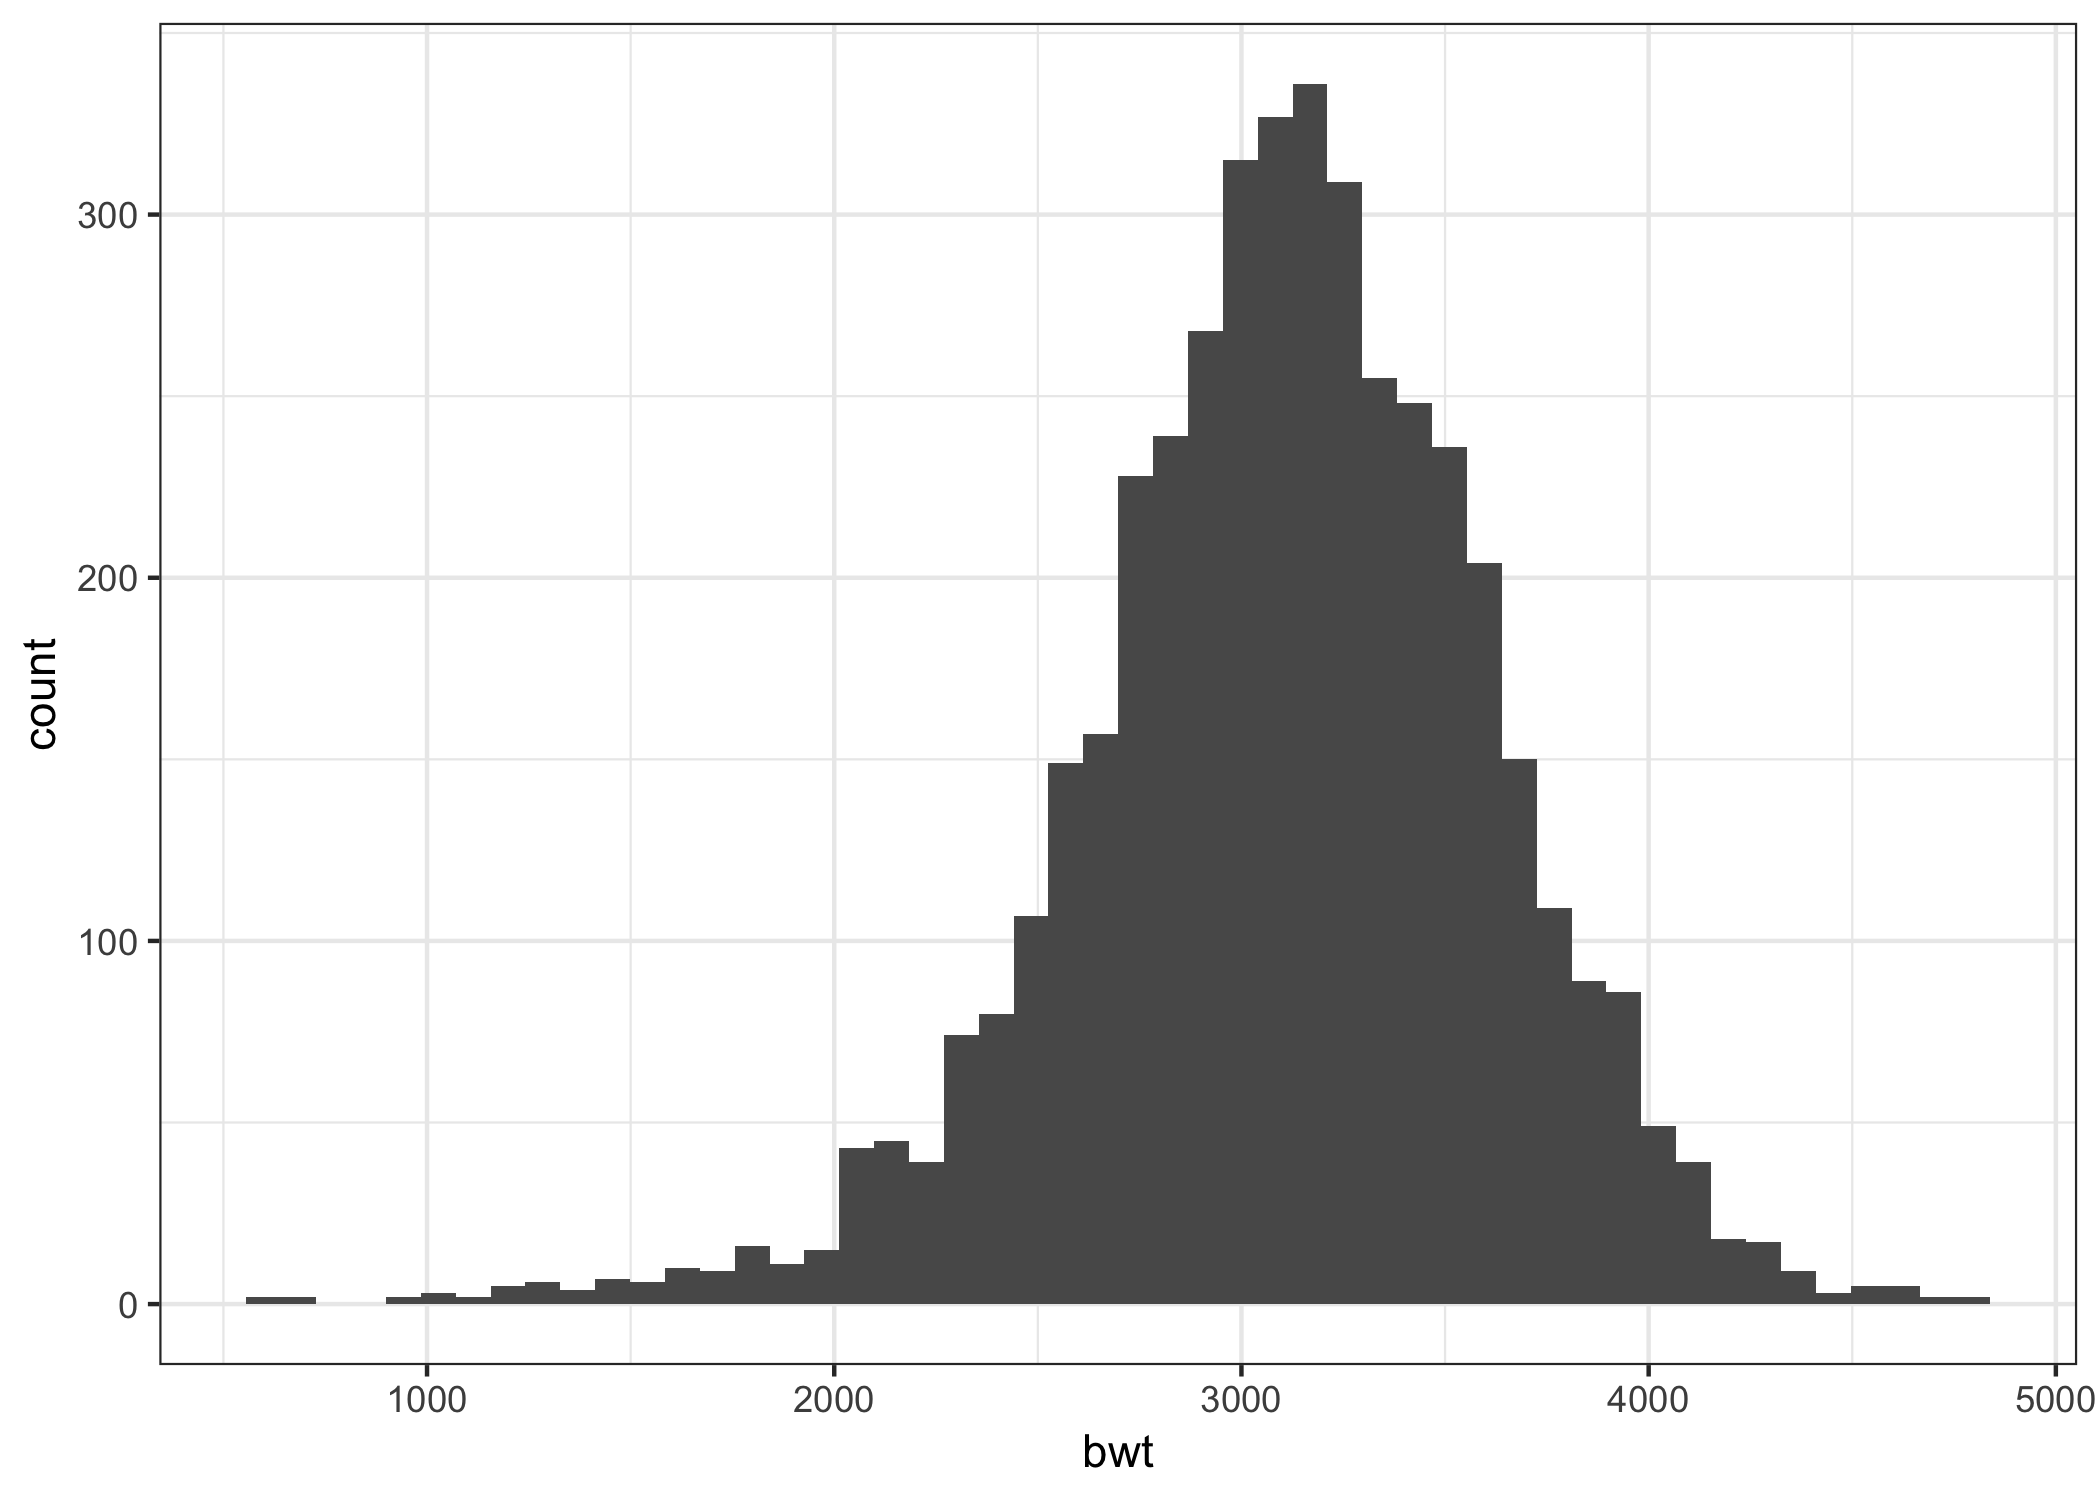
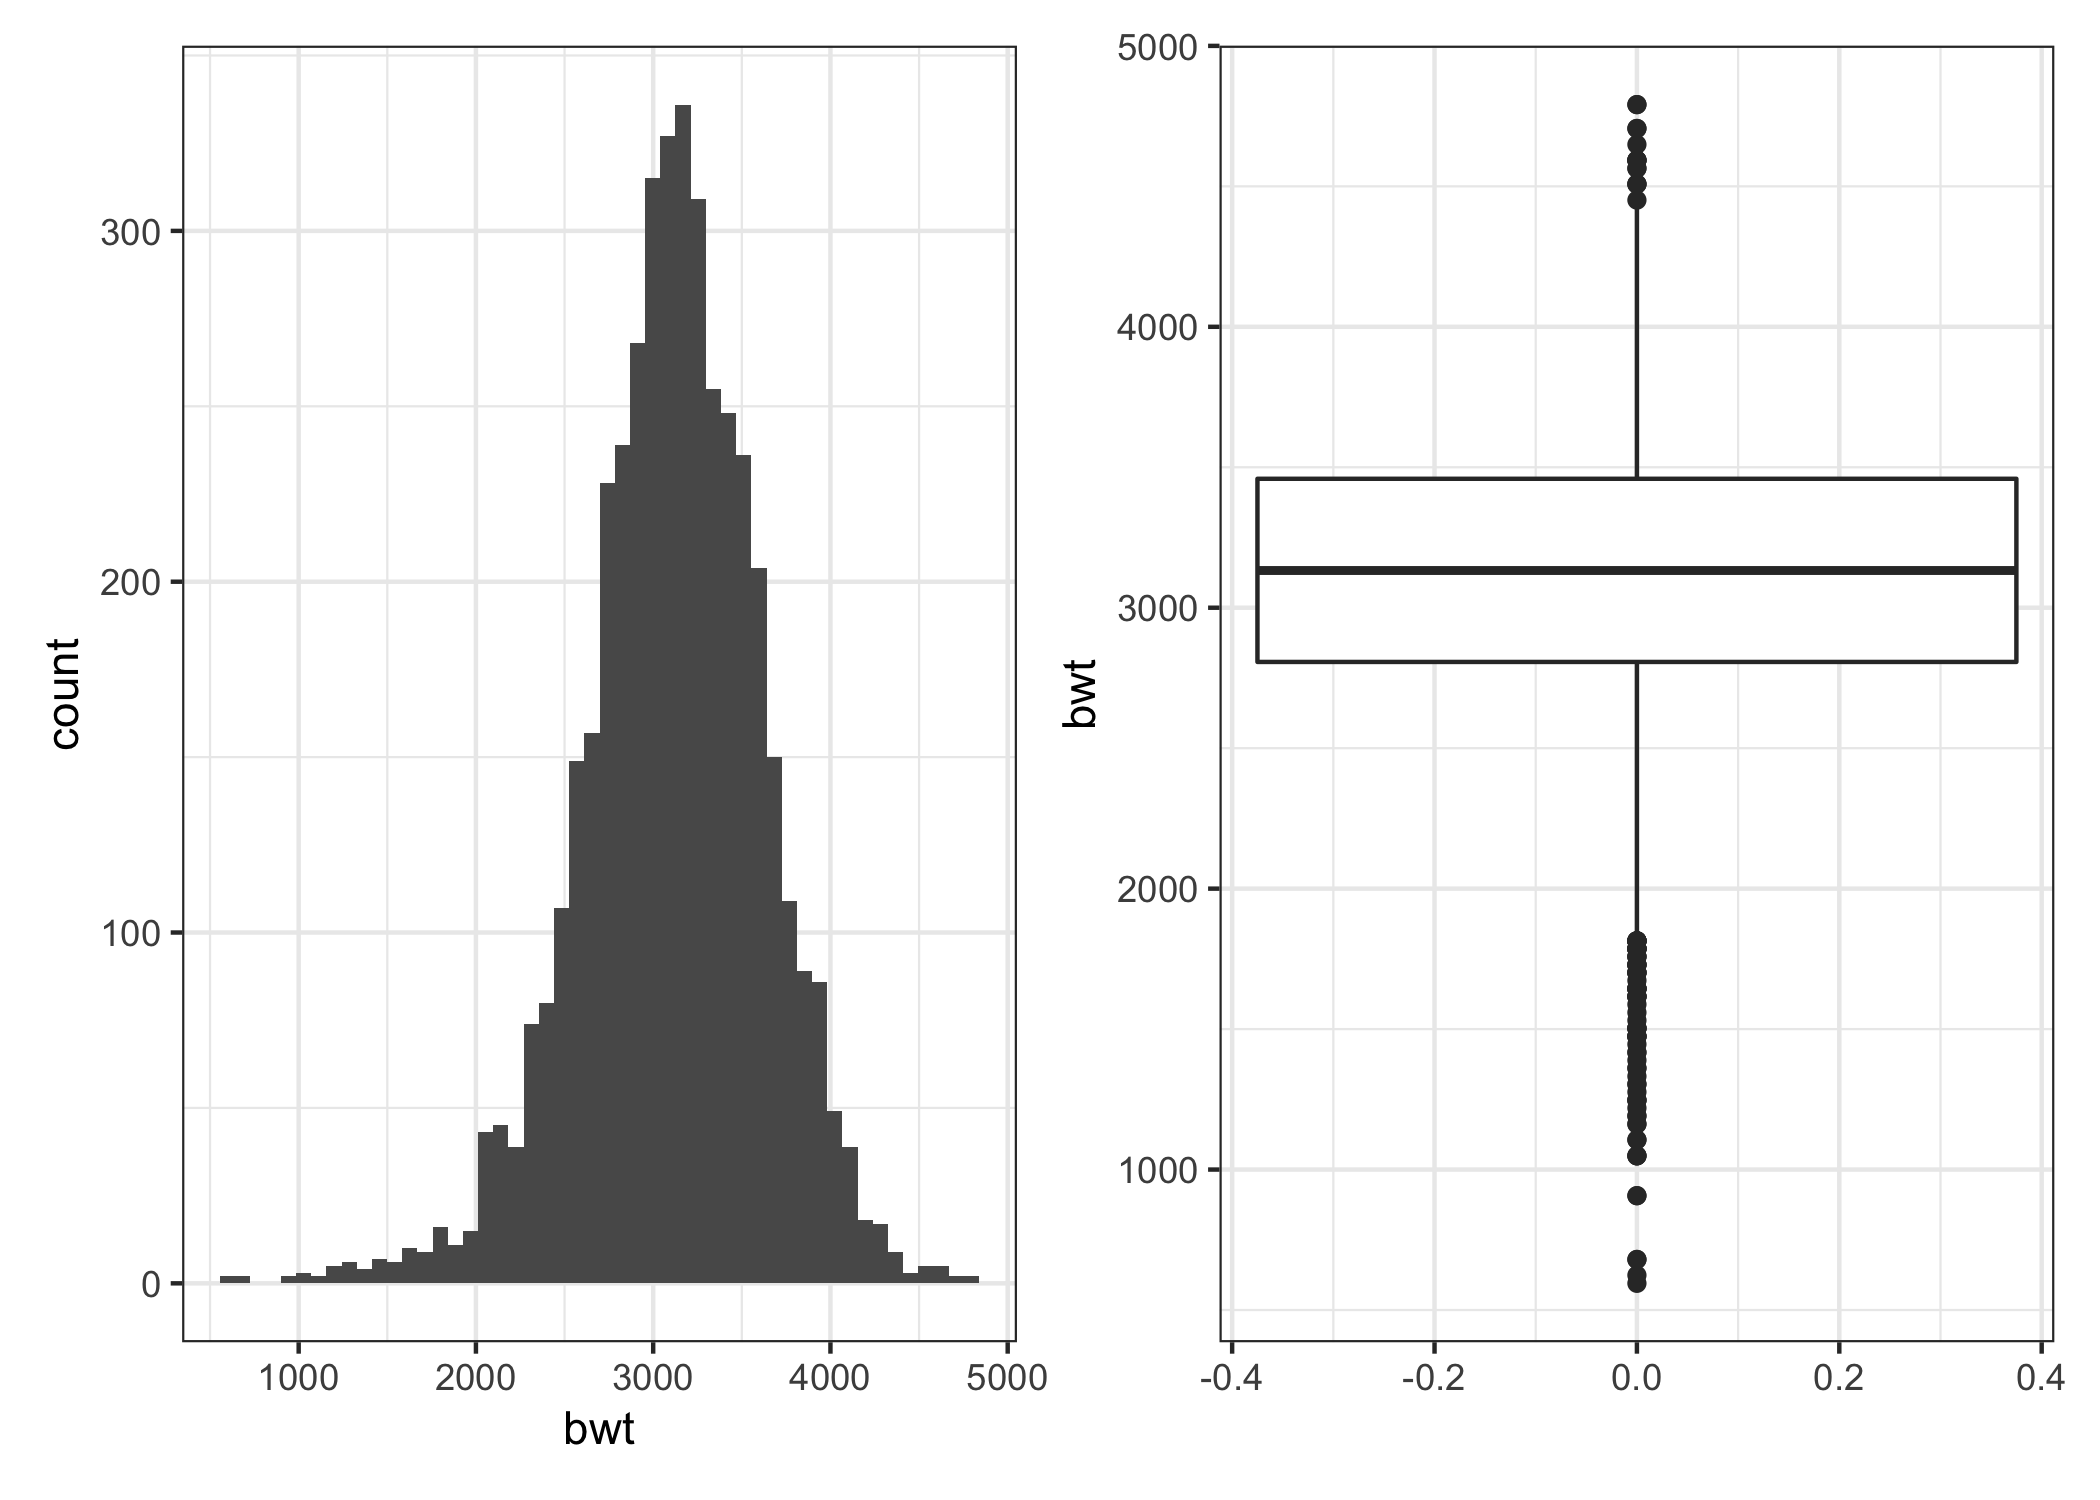
Final commit after adjusting my model

diff --git a/HW6.md b/HW6.md
@@ -71,6 +71,7 @@ wp_homicide_data %>%
   geom_point(color = "firebrick") + 
   geom_errorbar(aes(ymin = OR_Lower_Bound, ymax = OR_Upper_Bound)) +
   coord_flip() + 
+  geom_hline(yintercept = 1, linetype = "dashed", color = "red", alpha = 0.5) +
   labs(title = "Adjusted Odds Ratios for Solving Homicides Comparing \n Non-White Victims to White Victims by City", 
        y = "Adjusted Odds Ratio", 
        x = "City, State", 
@@ -91,11 +92,10 @@ Overall, we see that cities with a large amount of homicides (Baltimore, Chicago
 Problem 2
 ---------
 
-Load and clean the data for regression analysis (i.e. convert numeric to factor where appropriate, check for missing data, etc.).
-
 ``` r
 bw = read_csv("data/birthweight.csv") %>% 
-  mutate(babysex = as.factor(babysex),
+  mutate(frace = ifelse(frace == "9", NA, frace),
+         babysex = as.factor(babysex),
          frace = as.factor(frace), 
          malform = as.factor(malform), 
          mrace = as.factor(mrace))
@@ -113,7 +113,7 @@ bw = read_csv("data/birthweight.csv") %>%
 
 ``` r
 # After importing the data, I checked which columns seemed appropriate to be converted to factors from numeric values. Those which where dichotomous or 
-# categorical variables and not appropriately continous, I converted using as.factor. 
+# categorical variables and not appropriately continous, I converted using as.factor. I also made those with value = 9 for frace = NA, which is what was indicated in the data dictionary
 
 # Checking for missing data,
 # There is no missing data in the data frame when checking each of the columns with the code below: 
@@ -121,141 +121,116 @@ bw = read_csv("data/birthweight.csv") %>%
 # sum(is.na(bw$bwt))
 ```
 
+*Below are some exploratory plots/analysis I will use to help select my model*
+
 ``` r
-#Exploratory plots to see distribution of birthweight
+#Exploratory plots to see distribution of birthweight -
 
 # No x to plot against, tried this scatter but not much info: bw %>% ggplot(aes(x = 1:nrow(bw), y = bwt)) + geom_point() + theme_bw()
 
-bw %>% 
+bwhisto =
+  bw %>% 
   ggplot(aes(x = bwt)) +
   geom_histogram(bins = 50) + 
   theme_bw()
+
+bwbox =
+  bw %>% 
+  ggplot(aes(y = bwt)) + 
+  geom_boxplot() +
+  theme_bw()
+
+wrap_elements(bwhisto + bwbox)
 ```
 
 <img src="HW6_files/figure-markdown_github/Exploratory Plots/Analysis for Model-1.png" style="display: block; margin: auto;" />
 
 ``` r
-bw %>% 
-  ggplot(aes(y = bwt)) + 
+# Birthweight is probably fairly normally distributed, with a few outliers, and should be treated as a continous variable in an analysis 
+
+bwsex = 
+  bw %>% 
+  ggplot(aes(x = babysex, y = bwt)) + 
   geom_boxplot() +
   theme_bw()
+
+fracebw = 
+  bw %>% 
+  ggplot(aes(x = frace, y = bwt)) + 
+  geom_boxplot() +
+  theme_bw()
+
+mracebw = 
+  bw %>% 
+  ggplot(aes(x = mrace, y = bwt)) + 
+  geom_boxplot() +
+  theme_bw()
+
+wrap_elements(bwsex + fracebw + mracebw)
 ```
 
 <img src="HW6_files/figure-markdown_github/Exploratory Plots/Analysis for Model-2.png" style="display: block; margin: auto;" />
 
 ``` r
-# Birthweight is probably fairly normally distributed, with a few outliers, and should be treated as a continous variable in an analysis 
-
-bw %>% 
-  ggplot(aes(x = babysex, y = bwt)) + 
-  geom_boxplot() +
-  theme_bw()
-```
-
-<img src="HW6_files/figure-markdown_github/Exploratory Plots/Analysis for Model-3.png" style="display: block; margin: auto;" />
-
-``` r
-bw %>% 
-  ggplot(aes(x = frace, y = bwt)) + 
-  geom_boxplot() +
-  theme_bw()
-```
-
-<img src="HW6_files/figure-markdown_github/Exploratory Plots/Analysis for Model-4.png" style="display: block; margin: auto;" />
-
-``` r
-bw %>% 
-  ggplot(aes(x = mrace, y = bwt)) + 
-  geom_boxplot() +
-  theme_bw()
-```
-
-<img src="HW6_files/figure-markdown_github/Exploratory Plots/Analysis for Model-5.png" style="display: block; margin: auto;" />
-
-``` r
 # The boxplots for categorical variables tells us a little bit of info, mostly that birthweight varies across all the categories 
 
-# For checking the relationships with continuous variables, I'll run a function to determine the correlation coefficients 
+# For checking the relationships with continuous variables, I'll run a loop to determine the correlation coefficients 
 
-# Function for this??
+cor_cts_table =
+  bw %>% 
+  select_if(is.numeric) %>% 
+  select(-bwt,
+         -pnumlbw,
+         -pnumsga)
 
-cor(bw$bwt, bw$bhead)
+corr_values = list()
+
+for (i in 1:ncol(cor_cts_table)) {
+  corr_values[[i]] = cor(bw$bwt, cor_cts_table[i])
+  }
+
+as.data.frame(corr_values) %>% 
+  gather(key = var, value = correlation) %>% 
+  knitr::kable(digits = 3)
 ```
 
-    ## [1] 0.7471068
+| var      |  correlation|
+|:---------|------------:|
+| bhead    |        0.747|
+| blength  |        0.743|
+| delwt    |        0.288|
+| fincome  |        0.155|
+| gaweeks  |        0.412|
+| menarche |       -0.024|
+| mheight  |        0.192|
+| momage   |        0.136|
+| parity   |       -0.008|
+| ppbmi    |        0.094|
+| ppwt     |        0.183|
+| smoken   |       -0.076|
+| wtgain   |        0.247|
 
 ``` r
-cor(bw$bwt, bw$blength)
+# From above we see that bhead, blength, delwt, gaweeks and wtgain all have correlation values >0.2, which may indicate a positive linear relationship with birthweight. While this might not mean much, it'll help me include it in a model
+
+# Scatter plots for cts variables, viewing correlation 
+# bw %>% 
+#  ggplot(aes(x= smoken, y = bwt)) + 
+#  geom_point() +
+#  geom_smooth() + 
+#  theme_bw()
 ```
 
-    ## [1] 0.7434508
-
 ``` r
-cor(bw$bwt, bw$delwt)
-```
+# Using my above 'analysis' and some hypothesized factors that I think influence birthweight, my proposed model is below. 
 
-    ## [1] 0.2878893
+# I'm afraid of adding too many predictors. I was wary of adding the bhead and blength variables, as these are measurements taken post-birth and cannot be changed/influenced. However, I chose to include blength because it's clear that length (height) and weight have a relationship. 
 
-``` r
-cor(bw$bwt, bw$fincome)
-```
-
-    ## [1] 0.1545715
-
-``` r
-cor(bw$bwt, bw$gaweeks)
-```
-
-    ## [1] 0.4121833
-
-``` r
-cor(bw$bwt, bw$menarche)
-```
-
-    ## [1] -0.02442466
-
-``` r
-cor(bw$bwt, bw$mheight)
-```
-
-    ## [1] 0.1921632
-
-``` r
-cor(bw$bwt, bw$momage)
-```
-
-    ## [1] 0.1357734
-
-``` r
-cor(bw$bwt, bw$ppbmi)
-```
-
-    ## [1] 0.09394573
-
-``` r
-cor(bw$bwt, bw$ppwt)
-```
-
-    ## [1] 0.182892
-
-``` r
-cor(bw$bwt, bw$wtgain)
-```
-
-    ## [1] 0.2472526
-
-``` r
-# From above we see that bhead, blength, delwet, gaweeks and wtgain all have correlation values >0.2, which may indicate a positive linear relationship with birthweight. While this might not mean much, it'll help me include it in a model 
-```
-
-Propose a regression model for birthweight. This model may be based on a hypothesized structure for the factors that underly birthweight, on a data-driven model-building process, or a combination of the two. Describe your modeling process and show a plot of model residuals against fitted values – use add\_predictions and add\_residuals in making this plot.
-
-``` r
-# Using my above 'analysis' and some hypothesized factors that I think influence birthweight, my proposed model is below. I'm afraid of adding too many predictors, and wary of add bhead and blength variables, as these are measurements taken post-birth and cannot be changed/influence. Additionally I didn't add any interaction terms to keep it a simple linear model with multiple predictors. I chose to include both mother and father's race, mother's weight at delivery, gestational age, weight gained during pregnancy and the smoking variable. 
+# I chose not to include both mother and father's race as it had many levels and may complicate the interpretation. Additionally I didn't add any interaction terms to keep it a simple linear model with multiple predictors. I included the baby's sex, mother's weight at delivery (high correlation), gestational age (in weeks, high correlation and hypothesized fact), and the smoking variable (possible confounder). 
 
 eric_model = 
   bw %>% 
-  lm(bwt ~ babysex + frace + mrace + delwt + gaweeks + wtgain + smoken, data = .)
+  lm(bwt ~ babysex + blength + delwt + gaweeks + smoken, data = .)
 
 bw %>% 
   add_predictions(eric_model) %>% 
@@ -273,13 +248,13 @@ bw %>%
 
 <img src="HW6_files/figure-markdown_github/My Proposed Model-1.png" style="display: block; margin: auto;" />
 
-I'm not sure what my scatterplot of the predicted values vs. residuals tells me and I'm pretty sure my model stinks.
+When I plot my model's residuals against predicted value, there seems to be some clustering, but also a good amount of outliers. I'm not sure my model predicts birthweight well, but I'm sticking to it.
 
 ``` r
 cv_bwt = crossv_mc(bw, 100)
 
 cv_bwt = cv_bwt %>% 
-  mutate(my_model = map(train, ~lm(bwt ~ babysex + frace + mrace + delwt + gaweeks + wtgain + smoken, data = .x)),
+  mutate(my_model = map(train, ~lm(bwt ~ babysex + blength + delwt + gaweeks + smoken, data = .)),
          jeff_model_main = map(train, ~lm(bwt ~ blength + gaweeks, data = .x)),
          jeff_model_int = map(train, ~lm(bwt ~ bhead + blength + babysex + bhead*blength + blength*babysex + 
                                            bhead*babysex + bhead*blength*babysex, data = .x))) %>% 
@@ -295,7 +270,7 @@ cv_bwt %>%
   ggplot(aes(x = model, y = rmse)) + 
   geom_violin() +
   theme_bw() + 
-  labs(title = "Violin plots of select model's RMSE",
+  labs(title = "Violin plots of selected model's RMSE",
        x = "Model Title",
        y = "RMSE")
 ```
@@ -317,6 +292,8 @@ cv_bwt %>%
 
 | model      |  mean\_rmse|
 |:-----------|-----------:|
-| my         |    420.8317|
+| my         |    327.1560|
 | jeff\_main |    333.4554|
 | jeff\_int  |    290.1558|
+
+The above plot visualizes violin plots for the RMSE of my proposed model, Jeff's main effects model, and Jeff's interaction model. Based on these plots, I would choose Jeff's interaction model, though my give a slight edge to my model over the main effects model. Adding interaction terms would probably help my model, as well as eliminating predictors which to add much (probably messing up the adjusted r^2).
